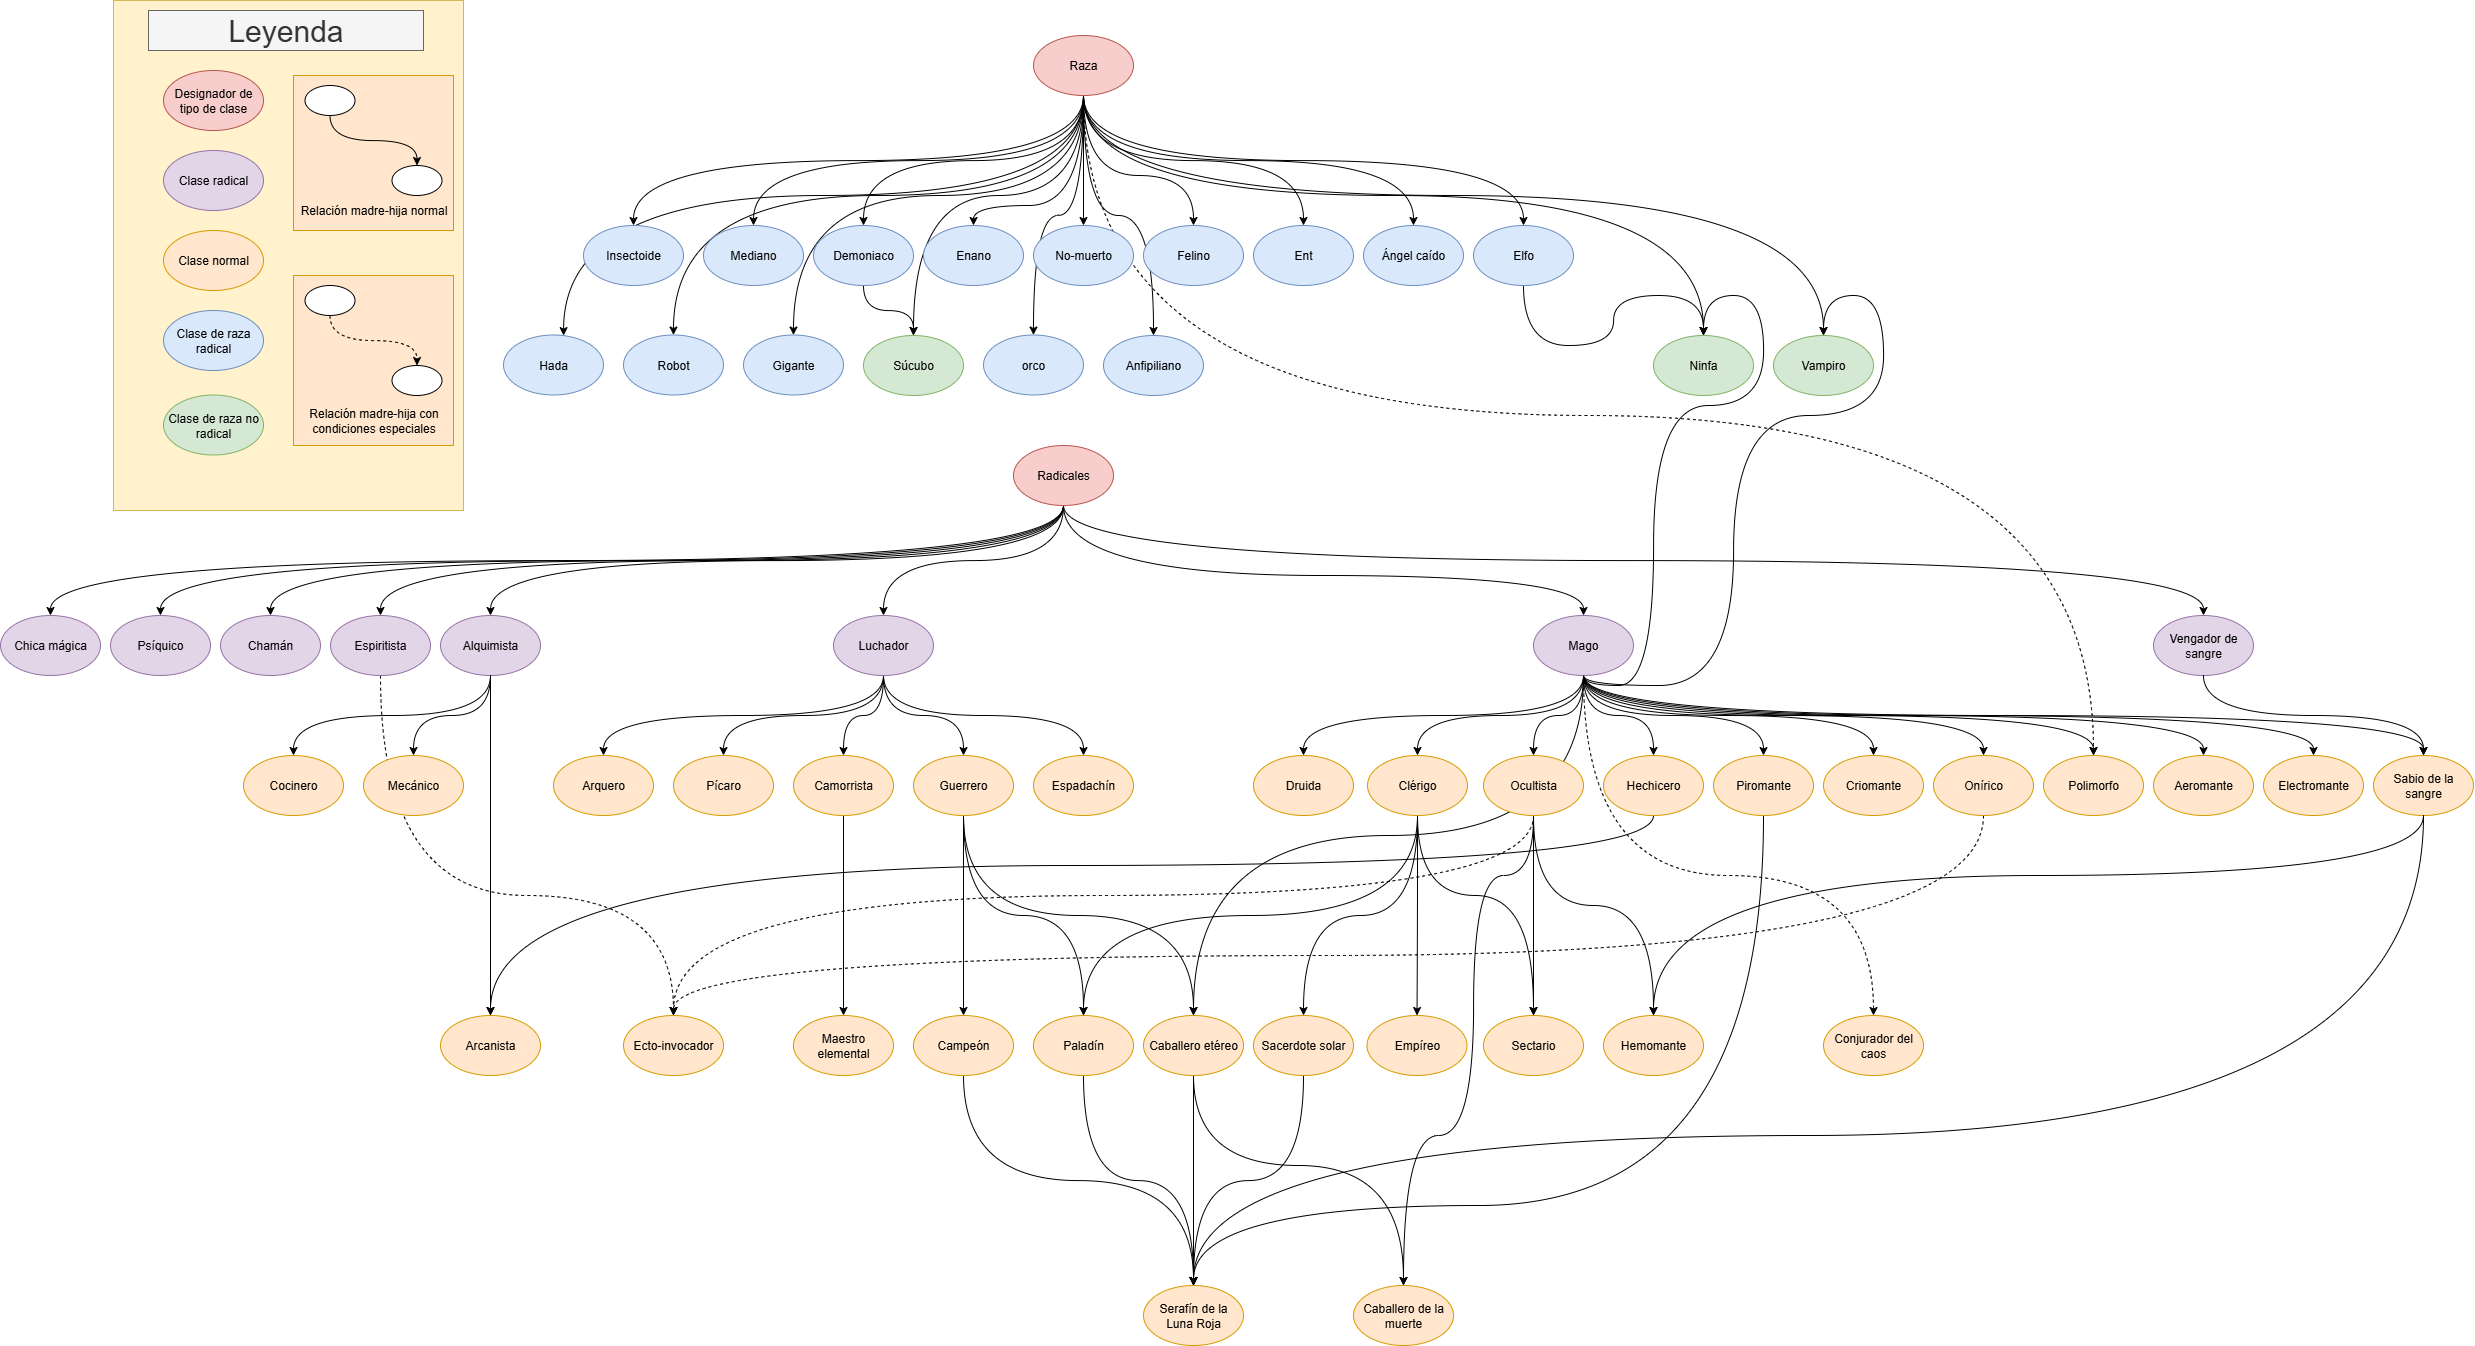
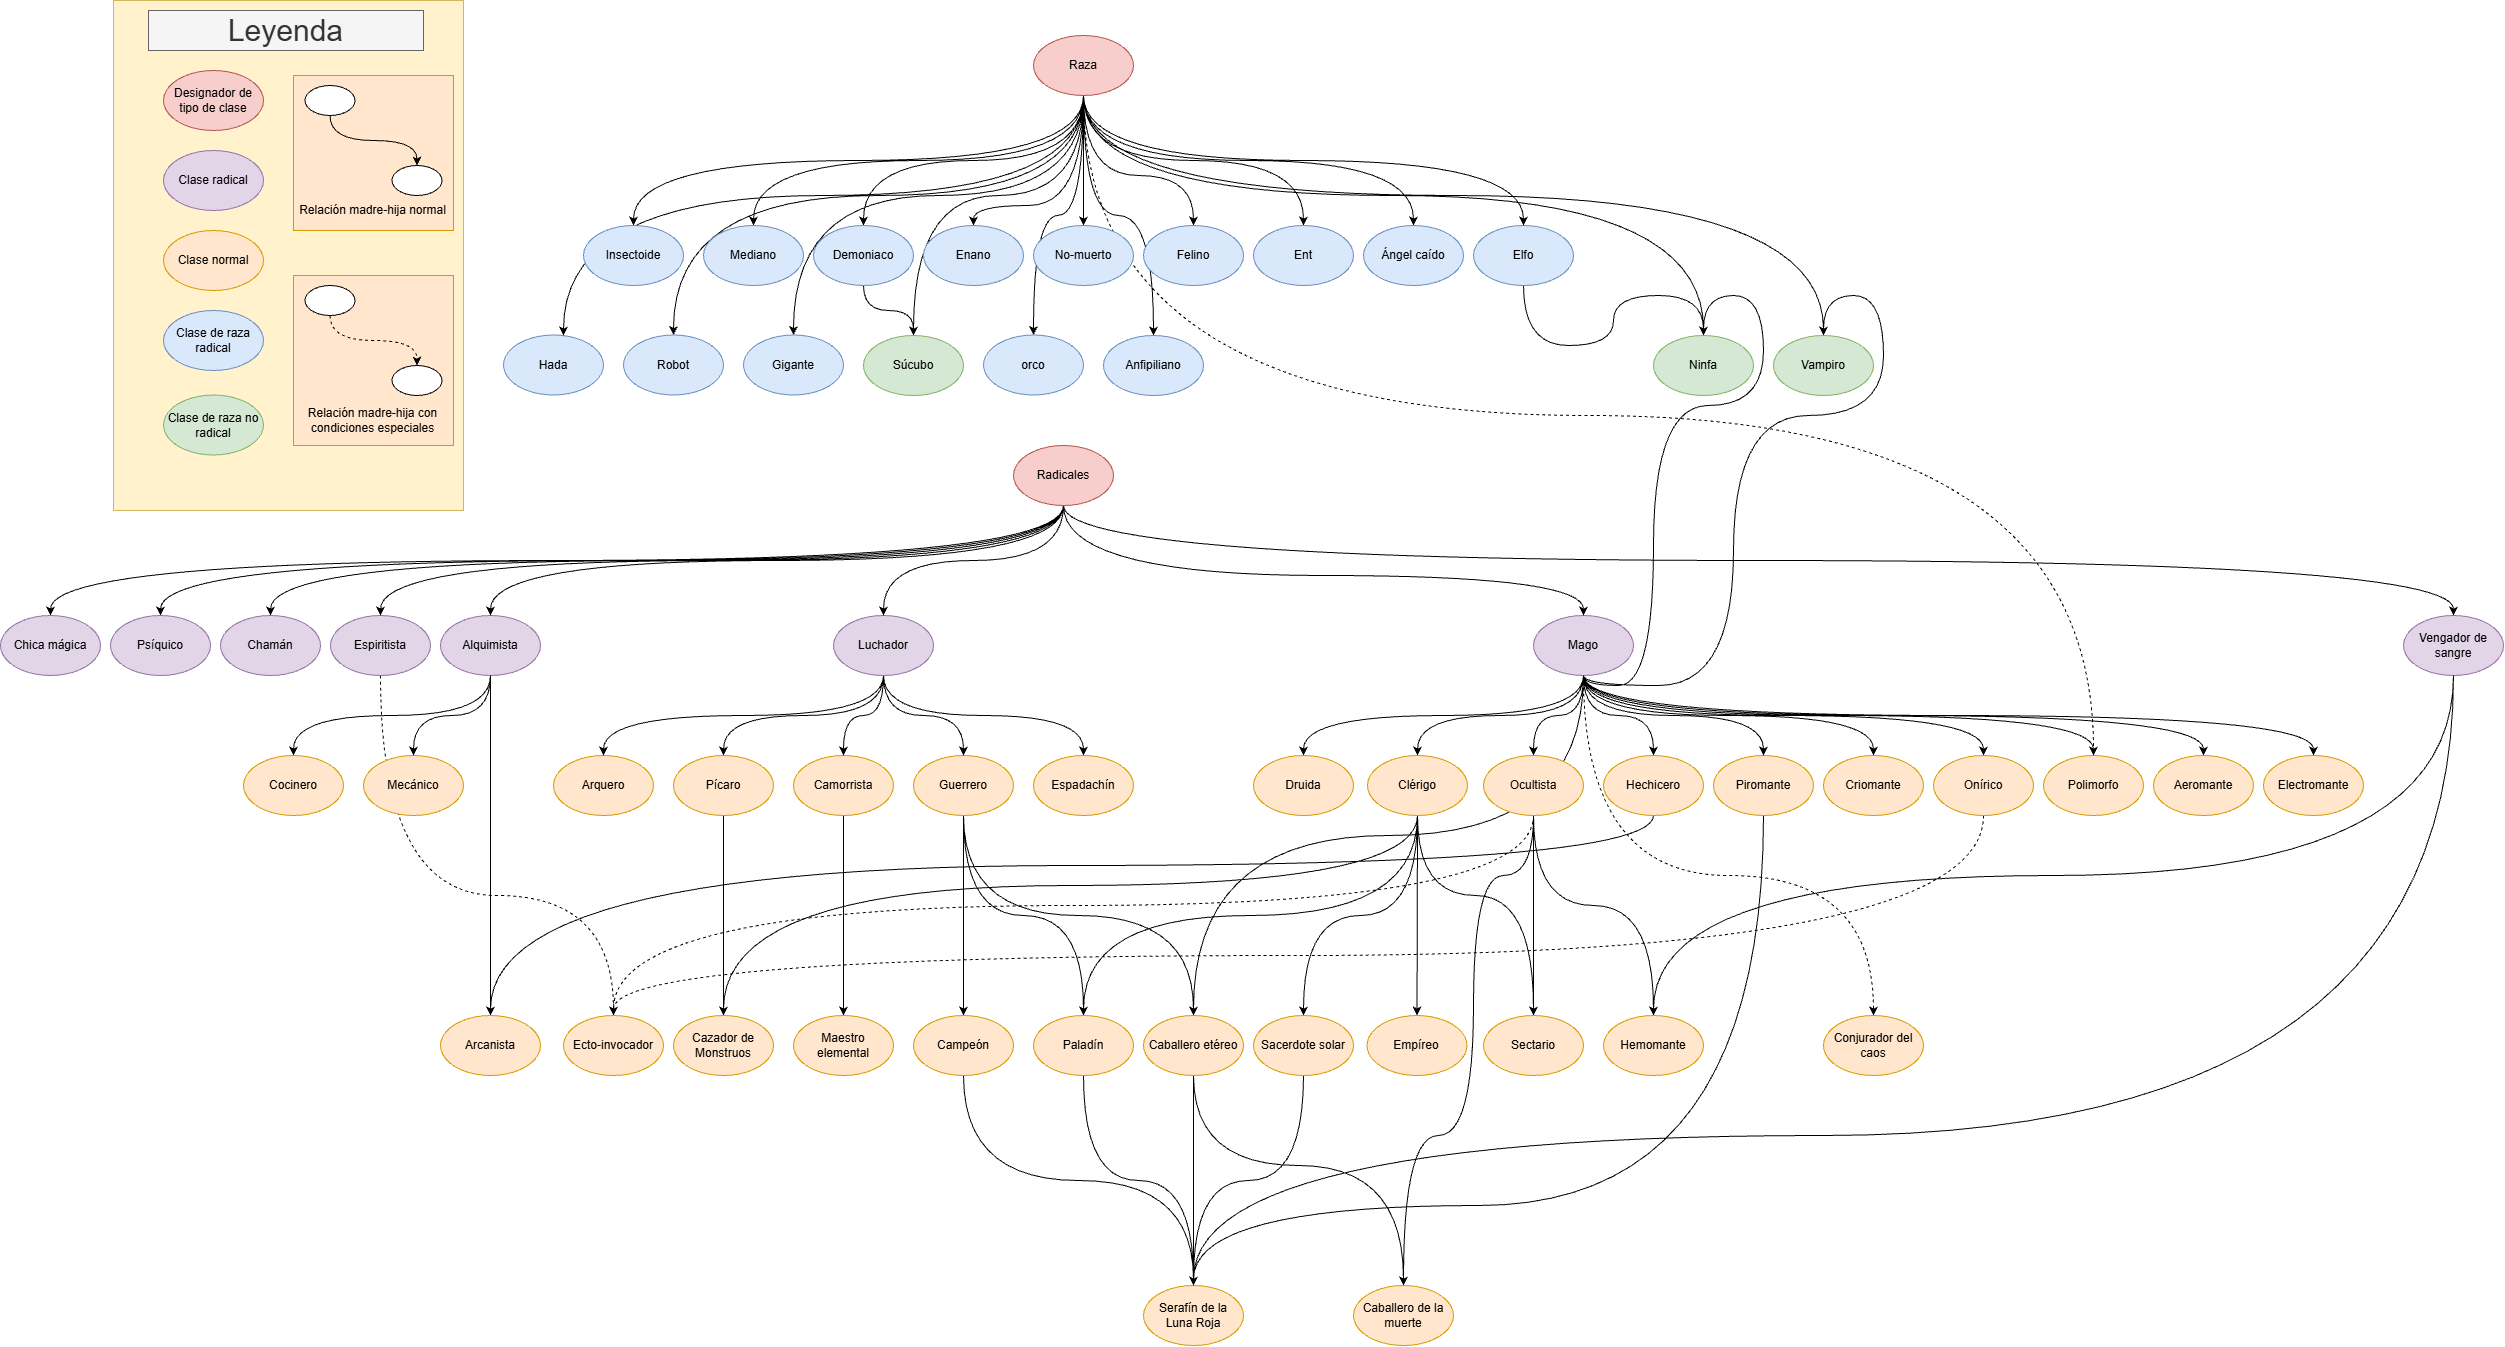
contadores de clases, habilidad e ítems de personaje

diff --git a/app/javascript/personajeForm.js b/app/javascript/personajeForm.js
@@ -42,15 +42,16 @@ export function onTurboLoad() {
 
 
   // Marcar/desmarcar filas borradas
-  document.querySelectorAll(".rm_input").forEach(input => {
-    input.addEventListener("change", () => {
+  document.addEventListener("change", e => {
+    if (e.target.classList.contains("rm_input")) {
+      const input = e.target;
       const row = input.closest("tr");
       const type = input.dataset.rm_type == "1"
       if (input.checked == type)
         row.classList.remove("pj-fila_borrada");
       else
         row.classList.add("pj-fila_borrada");
-    });
+    }
   });
 
   // ESTADO
@@ -94,7 +95,7 @@ export function onTurboLoad() {
         const index = e.target.dataset.index;
         const modal = document.getElementById(e.target.dataset.index);
         modal.style.display = "none";
-        extraAction(modal, index);
+        extraAction(modal, index, e.target.classList);
       }
     }
   }
@@ -159,10 +160,12 @@ export function onTurboLoad() {
 
   // Modal estados alterados parte cuerpo
   pc_body.addEventListener("click", openModal);
-  pc_body.addEventListener("click", createCloseModalHandler((modal, index) => {
-    const table = modal.querySelector('table');
-    const target_writting = document.getElementById("resumen-" + index);
-    estadosalterados_summary(table, target_writting);
+  pc_body.addEventListener("click", createCloseModalHandler((modal, index, classList) => {
+    if (classList.contains("modal-close-resumen")) {
+      const table = modal.querySelector('table');
+      const target_writting = document.getElementById("resumen-" + index);
+      estadosalterados_summary(table, target_writting);
+    }
   }));
 
   // Añadir parte cuerpo
@@ -216,11 +219,13 @@ export function onTurboLoad() {
   // Modal sobreescritura clase y habilidad
   function modalHandelers(container) {
     container.addEventListener("click", openModal);
-    container.addEventListener("click", createCloseModalHandler((_, id) => {
-      // reemplazar texto de efecto por la sobreescritura en la carta
-      const div_efecto = document.getElementById(`efecto-${id}`);
-      const input_sobrreescritura = document.getElementById(`sobreescritura-${id}`);
-      div_efecto.innerHTML = input_sobrreescritura.value;
+    container.addEventListener("click", createCloseModalHandler((_, id, classList) => {
+      if (classList.contains("modal-close-sobreescritura")) {
+        // reemplazar texto de efecto por la sobreescritura en la carta
+        const div_efecto = document.getElementById(`efecto-${id}`);
+        const input_sobrreescritura = document.getElementById(`sobreescritura-${id}`);
+        div_efecto.innerHTML = input_sobrreescritura.value;
+      }
     }));
 
     // Reseteo texto sobreescritura clase o habilidad
@@ -262,6 +267,30 @@ export function onTurboLoad() {
 
   // Abrir lista habilidades clase
   selectListFromMenu(clasesContainer, habilidadesContainer, "carta_form_clase");
+
+  // Añadir contador de clase/habilidad/ítem
+  document.querySelectorAll(".add-contador").forEach(button => {
+    button.addEventListener("click", () => {
+      const conts_body = document.getElementById(button.dataset.conts_body);
+      const index = conts_body.querySelectorAll("tr").length;
+      const prefix = button.dataset.prefix+"[calculados]["+index+"]";
+      const template = document.getElementById("contador-template");
+      const html = template.innerHTML.replace(/__PREFIX__/g, prefix);
+      conts_body.insertAdjacentHTML("beforeend", html);
+    });
+  });
+
+  // Toggle rango contador clase/habilidad
+  function addToggleRangoListener(container) {
+    container.addEventListener("click", e => {
+      if (e.target.classList.contains("toggle-rango")) {
+        toggleRango(e.target);
+      }
+    });
+  }
+  addToggleRangoListener(clasesContainer);
+  addToggleRangoListener(habilidadesContainer);
+
 
 
   // ITEMS

diff --git a/app/assets/stylesheets/partials/_personaje.scss b/app/assets/stylesheets/partials/_personaje.scss
@@ -227,6 +227,16 @@
   background-color: var(--c_alternativo);
 }
 
+fieldset[disabled] .open_modal {
+  cursor: not-allowed !important;
+}
+fieldset[disabled] .open_modal:hover {
+  transform: none;
+}
+fieldset[disabled] .btn-primary:hover {
+  background-color: var(--c_alternativo);
+}
+
 .open_modal-clase{
   margin-left: 20px;
 }

diff --git a/app/assets/stylesheets/partials/_cartas.scss b/app/assets/stylesheets/partials/_cartas.scss
@@ -63,7 +63,7 @@
 
 .carta_form_habilidad {
     width: var(--ancho_carta_form_habilidad);
-    height: 300px;
+    height: 400px;
 }
 
 .carta_form_clase {

diff --git a/app/controllers/personajes_controller.rb b/app/controllers/personajes_controller.rb
@@ -61,6 +61,32 @@ class PersonajesController < ModelController
     end
   end
 
+  # calculados of personaje_has_clase or personaje_has_habilidad or personaje_has_item
+  def process_contadores_for(contadores, target)
+    return unless contadores
+    contadores.each_value do |attrs|
+      contador = target.calculados.find_by(id: attrs[:id].to_i) if attrs[:id]
+      Rails.logger.debug "Processing contador with attrs: #{attrs.inspect}, found contador: #{contador.inspect}"
+      if attrs[:_destroy] == "1"
+        contador.destroy if contador
+        Rails.logger.debug "Destroyed contador with id: #{contador&.id}"
+      else
+        Rails.logger.debug "Before processing contador: #{contador.inspect}"
+        contador ||= target.calculados.build( modificable: Pj::Modificable.new )
+        libre = contador.calculado_libre || contador.build_calculado_libre
+        libre.nombre = attrs[:nombre]
+        libre.base   = attrs[:base].to_i
+        if attrs[:rango].present?
+          contador.build_rango if contador.rango.nil?
+          contador.rango.valor = attrs[:rango]&.to_i || 0
+        else
+          contador.rango&.destroy
+        end
+        contador.save!
+      end
+    end
+  end
+
   # Procesa los parámetros complejos y actualiza/crea asociaciones en @personaje (que ya existe en @x)
   def process_associations_for(personaje)
 
@@ -175,6 +201,7 @@ class PersonajesController < ModelController
           else
             phc.sobreescritura = attrs[:sobreescritura]
           end
+          process_contadores_for attrs[:calculados], phc
           phc.save!
       end
     end
@@ -214,6 +241,7 @@ class PersonajesController < ModelController
         else
           phh.sobreescritura = attrs[:sobreescritura]
         end
+        process_contadores_for attrs[:calculados], phh
         phh.save!
       end
     end
@@ -254,6 +282,7 @@ class PersonajesController < ModelController
         else
           phi.sobreescritura = attrs[:sobreescritura]
         end
+        process_contadores_for attrs[:calculados], phi
         phi.save!
       end
     end

diff --git a/app/controllers/model_controller.rb b/app/controllers/model_controller.rb
@@ -82,7 +82,8 @@ class ModelController < ApplicationController
         Rails.logger.error error_message
         Rails.logger.error e.backtrace.join("\n")
         flash[:alert] = error_message
-        flash[:form_data] = params[tipo.model_name.param_key].except(:image)
+        data = params[tipo.model_name.param_key].except(:image)
+        flash[:form_data] = data if data.to_s.bytesize < 2000
         redirect_to  action: action_to_redirect, id: params[:id]
       end
     end

diff --git a/app/models/pj/personaje_has_item.rb b/app/models/pj/personaje_has_item.rb
@@ -3,6 +3,8 @@ class Pj::PersonajeHasItem < ApplicationRecord
   belongs_to :personaje
   belongs_to :item
   
+  has_many :calculados, as: :hasCalculados, class_name: "Pj::Calculado", dependent: :destroy, autosave: true, inverse_of: :hasCalculados
+  
   has_rich_text :sobreescritura
 
     scope :ordered, -> { joins(:item).order("items.nombre") }
